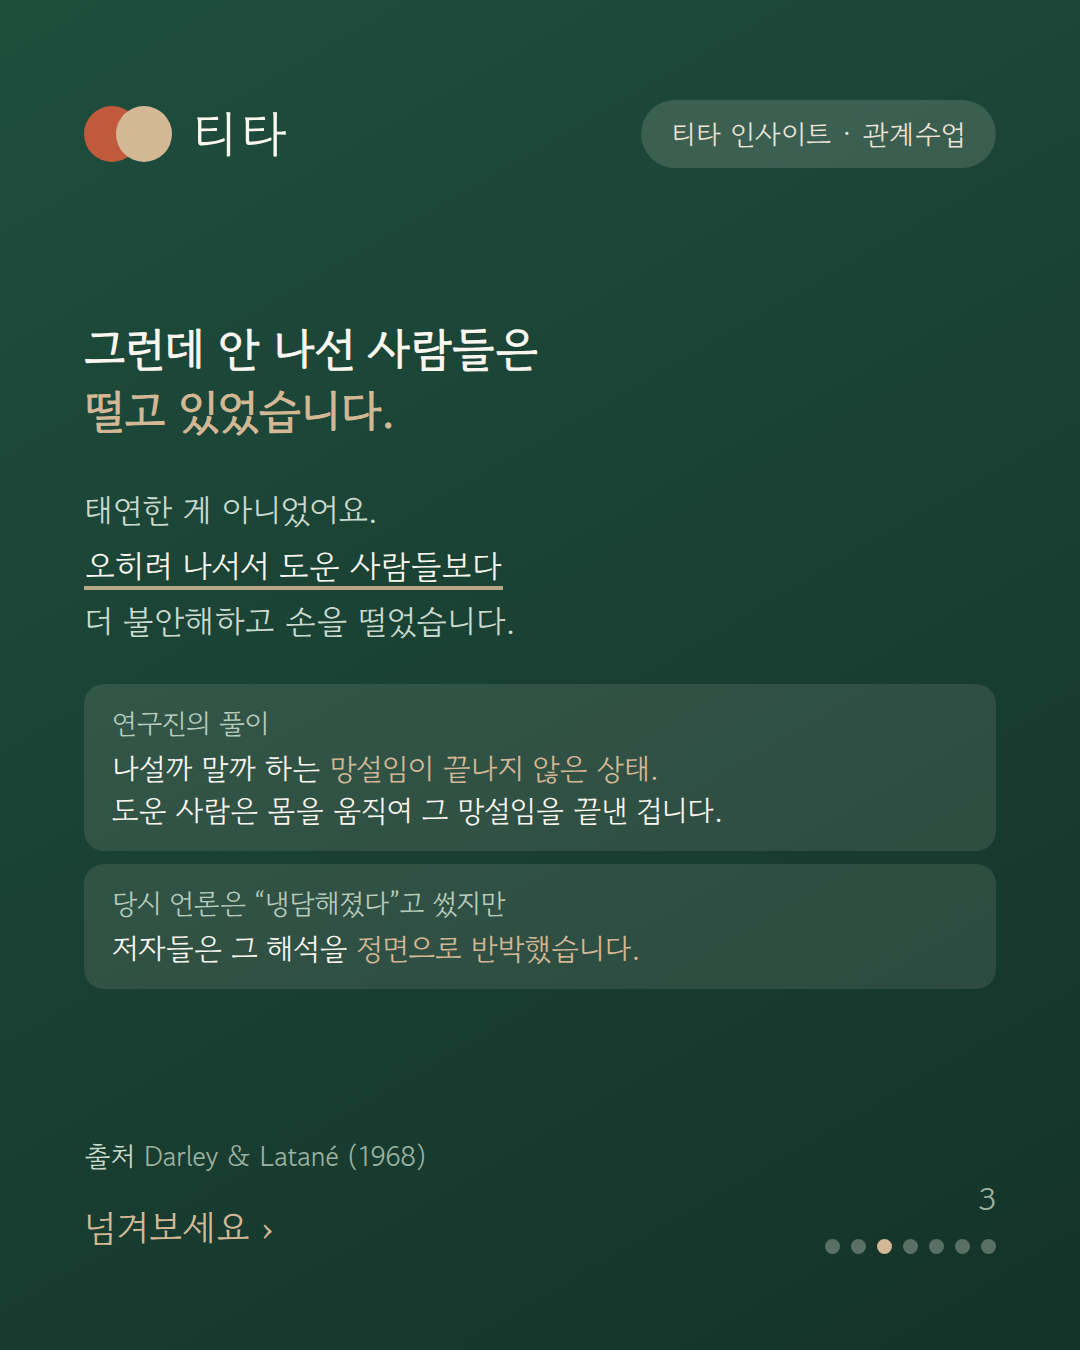
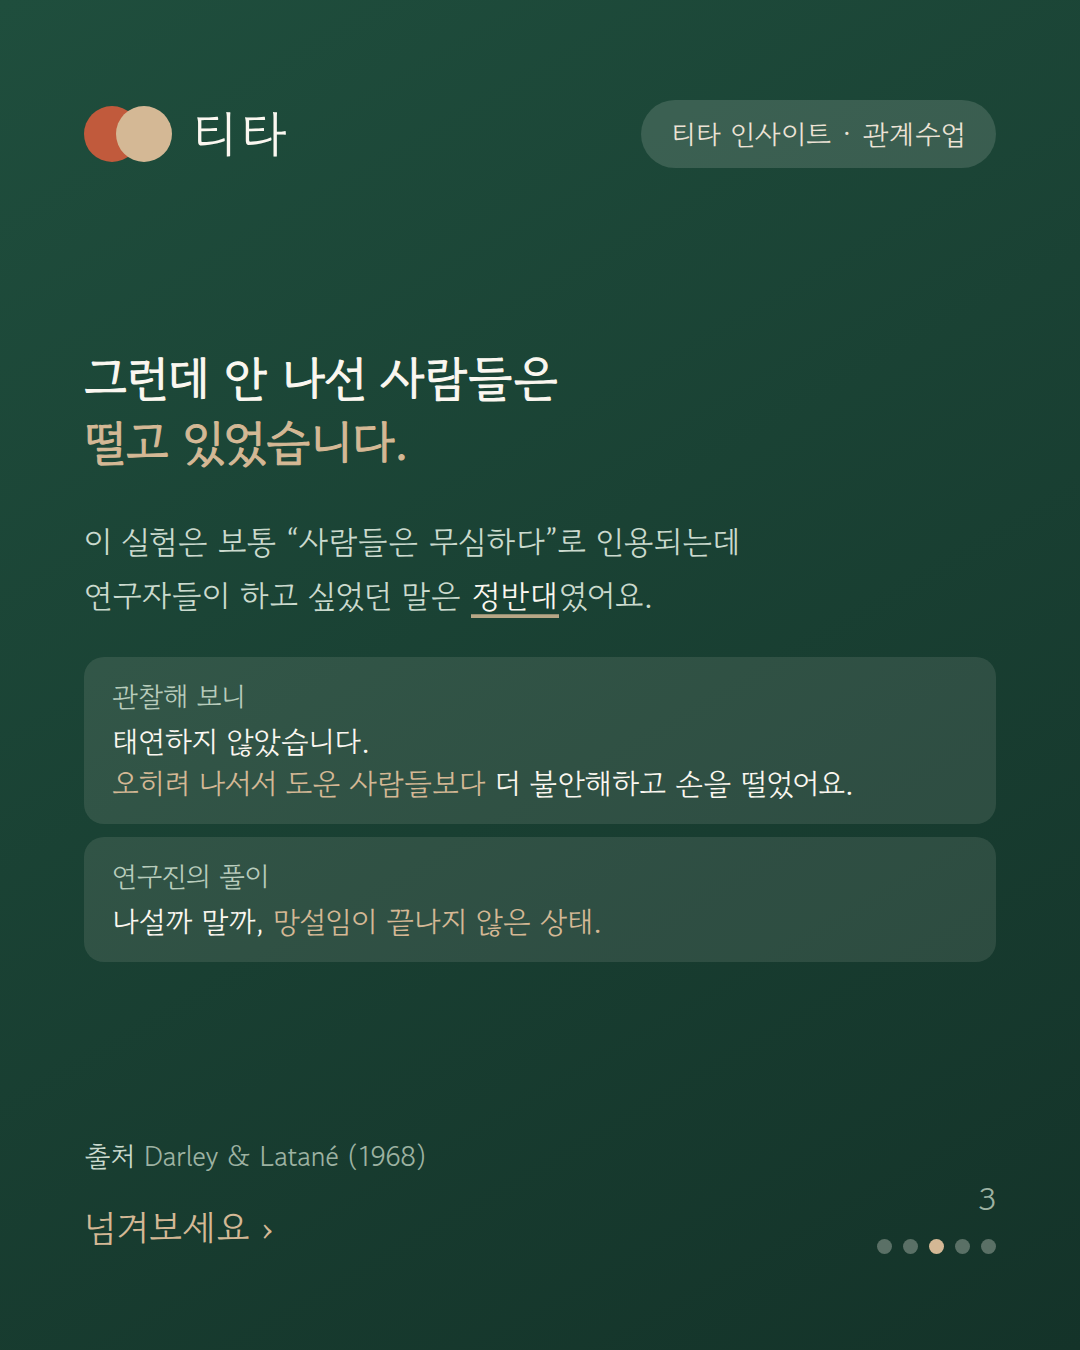
refactor(blog): 인사이트 14를 다시 짧게 쓴다 — 우리 서로 아는 척하고 지냅시다
훅을 고치다가 글이 논증문이 됐다. 자료를 먼저 깔고 거기 맞춰 글을 지으니
연구가 다섯 개까지 늘고 도덕적 구분까지 붙었다. 순서를 뒤집었다.
하고 싶은 말 한 줄을 먼저 정하고 거기 필요한 자료만 붙인다.

밀그램·의도적 무지·다원적 무지·마키를 덜어내고 연구를 셋으로 줄였다.
7분에서 4분이 됐다. 카드도 블로그 5장, 인스타 5장으로 다시 뽑았다.

Claude-Session: https://claude.ai/code/session_01SVoaR1M7XWjiBzTKquaj1d

diff --git a/src/app/blog/posts.ts b/src/app/blog/posts.ts
@@ -231,148 +231,64 @@ export const POSTS: BlogPost[] = [
   },
   {
     slug: "why-no-one-replies",
-    title: "모른 척한 게 아니었습니다",
+    title: "우리 서로 아는 척하고 지냅시다",
     description:
-      "요즘은 다들 알면서 모르는 척한다고들 합니다. 그런데 1968년 실험은 정반대를 말합니다. 나서지 않은 사람들은 태연하지 않았고, 오히려 나선 사람들보다 더 떨고 있었습니다.",
+      "읽고 마음이 움직였는데 그냥 창을 닫은 적, 있으시죠. 1968년 실험은 그게 무심해서가 아니라고 말합니다. 나서지 않은 사람들은 오히려 더 떨고 있었습니다.",
     date: "2026-08-10",
     category: "관계 인사이트",
-    tags: [
-      "5060",
-      "관계",
-      "공감",
-      "커뮤니티",
-      "방관자 효과",
-      "다원적 무지",
-      "인간관계",
-      "심리학",
-    ],
+    tags: ["5060", "관계", "커뮤니티", "방관자 효과", "인간관계", "심리학"],
     cover: "/blog/insight-14/card-1.png",
-    readingMinutes: 7,
+    readingMinutes: 4,
     body: [
       {
         type: "p",
-        text: "요즘은 다들 알면서 모르는 척한다고들 합니다.",
+        text: "좋은 글을 읽었습니다. 마음이 조금 움직였습니다. 뭐라고 한마디 남길까 하다가, 그냥 창을 닫았습니다.",
       },
       {
         type: "p",
-        text: "도움이 필요해 보이는 사람이 있어도 못 본 듯 지나갑니다. 누가 어렵게 힘든 얘기를 꺼내면 잠깐 조용해졌다가 화제가 바뀝니다. 분명히 봤고 분명히 들었는데, 아무 일도 없던 것처럼 넘어갑니다.",
-      },
-      {
-        type: "p",
-        text: "그럴 때면 **사람들이 변했나 보다** 싶어집니다.",
-      },
-      {
-        type: "p",
-        text: "그런데 자료를 찾아보니 **1968년에도 똑같았습니다.**",
+        text: "**‘내가 뭐라고 아는 척을 하나.’ ‘이미 누가 답했겠지.’ ‘올린 지 좀 됐는데 지금 달면 이상한가.’** 그렇게 손이 멈춥니다. 이런 적, 있으실 겁니다.",
       },
       {
         type: "image",
         src: "/blog/insight-14/card-1.png",
-        alt: "알면서 모르는 척하는 일이 1968년에도 똑같았다는 티타 인사이트 카드",
+        alt: "읽고 마음이 움직였는데 그냥 창을 닫은 적 있느냐고 묻는 티타 인사이트 카드",
         caption: "티타 인사이트 · 관계수업 #14",
       },
-      { type: "h2", text: "1968년에도 똑같았습니다" },
+      { type: "h2", text: "여럿이 있으면 아무도 나서지 않습니다" },
       {
-        type: "p",
-        text: "심리학에 **방관자 효과**라는 말이 있습니다. 도움이 필요한 상황에서 **지켜보는 사람이 많을수록 아무도 나서지 않는** 현상입니다. 각자 “누군가 하겠지” 하고 기다리다 결국 아무도 하지 않습니다. 이걸 **책임 분산**이라고 부릅니다.",
+        type: "image",
+        src: "/blog/insight-14/card-2.png",
+        alt: "지켜보는 사람이 많을수록 아무도 나서지 않는다는 방관자 효과 티타 인사이트 카드",
+        caption: "Darley & Latané (1968) · 방관자 효과",
       },
       {
         type: "p",
-        text: "이 실험이 발표된 게 **1968년**입니다. 스마트폰도, 인터넷도 없던 때입니다. 지금 “요즘 사람들”이라 불리는 이들의 부모, 그 위 세대가 실험 참가자였습니다.",
+        text: "심리학에 **방관자 효과**라는 말이 있습니다. 도움이 필요한 상황에서 **지켜보는 사람이 많을수록 아무도 나서지 않는** 현상입니다. 각자 “누군가 하겠지” 하고 기다리다 결국 아무도 하지 않습니다.",
       },
       {
         type: "p",
-        text: "2년 뒤에는 이런 연구도 나왔습니다. 도시 사람들이 서로에게 덜 반응하는 건 **냉정해서가 아니라 감당할 양을 넘어서기 때문**이라는 겁니다. 하루에 스치는 얼굴이 너무 많으니 사람의 신경이 알아서 걸러 냅니다. 실제로 통근길 승객들에게 물으니 **얼굴을 아는 사람은 평균 네 명인데, 말을 걸어 본 사람은 한두 명**이었습니다. 알아보면서도 모른 채 지나가고 있었던 겁니다.",
-      },
-      {
-        type: "callout",
-        text: "알면서 지나치는 건 요즘 사람이 되어서 생긴 일이 아닙니다. 반세기 전에 이미 그랬습니다.",
+        text: "이게 밝혀진 게 **1968년**입니다. 스마트폰도, 인터넷도 없던 때입니다. **여럿이 모이면 원래 이렇게 됩니다.**",
       },
       { type: "h2", text: "그런데 안 나선 사람들은 떨고 있었습니다" },
       {
         type: "image",
-        src: "/blog/insight-14/card-2.png",
-        alt: "나서지 않은 참가자들이 무심한 게 아니라 끝까지 망설이고 있었다는 1968년 실험 결과 티타 인사이트 카드",
+        src: "/blog/insight-14/card-3.png",
+        alt: "나서지 않은 참가자들이 무심한 게 아니라 끝까지 망설이고 있었다는 실험 결과 티타 인사이트 카드",
         caption: "Darley & Latané (1968)",
       },
       {
         type: "p",
-        text: "보통 이 실험은 “사람들은 무심하다”는 이야기로 인용됩니다. 그런데 연구자들이 정작 하고 싶었던 말은 **정반대**였습니다.",
+        text: "이 실험은 보통 “사람들은 무심하다”는 이야기로 인용됩니다. 그런데 연구자들이 정작 하고 싶었던 말은 **정반대**였습니다.",
       },
       {
         type: "p",
-        text: "나서지 않은 참가자들을 관찰해 보니 태연하지 않았습니다. **오히려 나서서 도운 사람들보다 더 불안해하고, 손을 떨고, 어쩔 줄 몰라 했습니다.** 논문은 그 모습을 이렇게 풀이했습니다. **나설까 말까 하는 망설임이 끝나지 않은 상태**라고요. 도운 사람은 몸을 움직여 그 망설임을 끝냈고, 돕지 않은 사람은 **끝내 끝내지 못한 채** 그 자리에 앉아 있었던 겁니다.",
-      },
-      {
-        type: "p",
-        text: "당시 언론은 “사람들이 냉담해졌다”고 썼습니다. 두 연구자는 그 해석을 정면으로 반박했습니다. **냉담한 게 아니라 갈피를 못 잡고 있는 것**이고, 무관심으로 불러 버리면 오히려 그 행동에 면죄부를 주는 셈이라고요.",
+        text: "나서지 않은 참가자들을 관찰해 보니 태연하지 않았습니다. **오히려 나서서 도운 사람들보다 더 불안해하고, 손을 떨고, 어쩔 줄 몰라 했습니다.** 논문은 그 모습을 **나설까 말까 하는 망설임이 끝나지 않은 상태**라고 풀이했습니다.",
       },
       {
         type: "callout",
-        text: "모른 척한 게 아니었습니다. 어쩔 줄 몰라 굳어 있었던 겁니다.",
+        text: "마음이 없어서 가만있었던 게 아닙니다. 마음은 있는데 몸이 안 움직인 겁니다.",
       },
-      { type: "h2", text: "다들 서로의 눈치를 보고 있었습니다" },
-      {
-        type: "image",
-        src: "/blog/insight-14/card-3.png",
-        alt: "각자 태연한 척하며 서로를 살피다 상대의 태연함을 무관심으로 읽는 다원적 무지 티타 인사이트 카드",
-        caption: "Latané & Darley (1968) · 다원적 무지",
-      },
-      {
-        type: "p",
-        text: "같은 연구팀의 다른 실험이 이유를 보여 줍니다. 참가자가 설문지를 쓰는 방에 슬그머니 연기를 흘려 넣었습니다. **혼자 있던 사람은 대부분 곧바로 알렸습니다.** 그런데 여럿이 함께 있을 때는 알린 사람이 훨씬 적었습니다. 연기가 방에 가득 찰 때까지 앉아 있기도 했습니다.",
-      },
-      {
-        type: "p",
-        text: "이유는 이렇습니다. 사람은 애매한 상황에서 **남의 얼굴을 봅니다.** 그런데 옆 사람도 태연한 척하며 **내 얼굴을 보고 있습니다.** 모두가 속마음을 감춘 채 서로를 살피니, 각자 상대의 태연함을 “별일 아닌가 보다”로 읽습니다. 이걸 **다원적 무지**라고 합니다.",
-      },
-      {
-        type: "p",
-        text: "모임에서 아무도 먼저 말을 안 거는 자리가 꼭 이렇습니다. **모른 척하기로 마음먹은 사람은 아무도 없습니다.** 다들 남들이 조용하니 내가 나설 자리가 아닌가 보다 하고 접을 뿐입니다. 그 조용함이 다시 다음 사람을 접게 만듭니다.",
-      },
-      {
-        type: "callout",
-        text: "무심해 보이는 자리는, 다들 마음을 숨긴 채 서로를 살피고 있는 자리일 수 있습니다.",
-      },
-      { type: "h2", text: "다만, 아예 눈을 돌리는 건 다릅니다" },
-      {
-        type: "p",
-        text: "여기까지는 **나서고 싶은데 몸이 안 움직인** 경우입니다. 그런데 아예 눈을 돌려 버리는 경우도 있습니다. 이건 이야기가 다릅니다.",
-      },
-      {
-        type: "p",
-        text: "연구자들이 3만 건이 넘는 선택을 모아 분석했습니다. 사람들에게 **자기 선택이 남에게 어떤 영향을 주는지 알아볼 기회**를 주었더니, **열에 넷은 알아보지 않는 쪽을 골랐습니다.**",
-      },
-      {
-        type: "p",
-        text: "연구자들은 이걸 **핑계를 만드는 행동**으로 봤습니다. 알아 버리면 도와야 합니다. 알고도 안 도우면 나쁜 사람이 됩니다. 그래서 **아예 안 보는 쪽**을 고릅니다. 모르면 안 도와도 되니까요.",
-      },
-      {
-        type: "callout",
-        text: "좋은 사람이 되는 것과, 좋은 사람으로 보이는 걸 지키는 것은 다릅니다.",
-      },
-      {
-        type: "p",
-        text: "그러니 이 글은 면죄부가 아닙니다. **마음이 있었는데 못 한 것과, 마음 쓰지 않기로 한 것은 다릅니다.** 앞은 이해할 일이고 뒤는 그렇지 않습니다. 다행히 대부분은 앞쪽입니다.",
-      },
-      { type: "h2", text: "온라인도 다르지 않습니다" },
-      {
-        type: "p",
-        text: "온라인 모임의 참여도 고르게 나뉘지 않습니다. 널리 쓰이는 기준선이 **90 : 9 : 1** 입니다. 90%는 읽기만 하고, 9%는 가끔 한마디 보태고, **1%가 거의 모든 글을 씁니다.** 그러니 답글이 없다고 아무도 안 읽은 게 아닙니다. **읽은 사람 대부분은 원래 아무 흔적도 남기지 않습니다.**",
-      },
-      {
-        type: "p",
-        text: "해법을 찾은 연구도 있었습니다. 심리학자 패트릭 마키는 실제 채팅방에서 방에 있는 사람 수와 답이 오기까지 걸린 시간을 쟀는데, **사람이 많은 방일수록 답이 늦게 왔습니다.** 그런데 **특정한 사람의 이름을 넣어 물으면** 인원수와 상관없이 답이 왔습니다.",
-      },
-      {
-        type: "p",
-        text: "그래서 저희도 해 봤습니다. **잘 되지 않았습니다.** 이유를 생각해 보니 자리가 달랐습니다. 그 연구의 채팅방은 **모두가 같은 시간에 들어와 있는** 곳이었습니다. 지금의 게시판은 **각자 다른 시간에 스치듯 지나갑니다.** 불린 이름이 그 사람에게 도착하지 않습니다.",
-      },
-      {
-        type: "p",
-        text: "그러니 이건 **글을 쓰는 쪽에서 풀 수 있는 문제가 아닙니다.** 다행히 다른 쪽에 답이 있었습니다.",
-      },
-      { type: "h2", text: "첫 한 줄이 다음을 부릅니다" },
+      { type: "h2", text: "한 사람만 있으면 됩니다" },
       {
         type: "image",
         src: "/blog/insight-14/card-4.png",
@@ -381,7 +297,7 @@ export const POSTS: BlogPost[] = [
       },
       {
         type: "p",
-        text: "2013년 **사이언스**에 실린 실험입니다. 연구팀은 한 커뮤니티 사이트에서 **10만 건이 넘는 글**을 대상으로, 글이 올라오자마자 **무작위로** 첫 반응을 달았습니다. **글의 내용과는 무관하게** 첫 반응만 조작한 것입니다.",
+        text: "2013년 **사이언스**에 실린 실험입니다. 연구팀은 한 커뮤니티 사이트의 **10만 건이 넘는 글**에, 올라오자마자 **무작위로** 첫 반응을 달았습니다. **글 내용과는 아무 상관 없이** 첫 반응만 조작한 것입니다.",
       },
       {
         type: "p",
@@ -389,38 +305,38 @@ export const POSTS: BlogPost[] = [
       },
       {
         type: "p",
-        text: "흥미로운 건 반대 방향이었습니다. **첫 반응이 부정일 때는 그렇게 번지지 않았습니다.** 나쁜 반응은 잘 옮지 않고, 좋은 반응만 옮았습니다.",
+        text: "재미있는 건 반대 방향이었습니다. **첫 반응이 부정일 때는 그렇게 번지지 않았습니다.** 나쁜 반응은 잘 옮지 않고, 좋은 반응만 옮았습니다.",
       },
       {
         type: "callout",
         text: "글이 좋아서 반응이 달리는 게 아니라, 반응이 달려서 반응이 달립니다. 그리고 그 시작은 딱 한 명입니다.",
       },
-      { type: "h2", text: "아마 그런 분은 아닐 겁니다" },
+      { type: "h2", text: "우리 서로 아는 척하고 지냅시다" },
       {
         type: "image",
         src: "/blog/insight-14/card-5.png",
-        alt: "누군가 문을 열어 두었다면 한 번 아는 척해 달라는 티타 인사이트 카드",
+        alt: "잘 쓴 답글이 아니라 읽었다는 기척 하나면 된다는 티타 인사이트 카드",
         caption: "@titakorea",
       },
       {
         type: "p",
-        text: "여기까지 읽으셨다면, 아마 눈을 돌리는 쪽은 아닐 겁니다. **읽고 마음이 움직였는데 손이 안 나갔던 쪽**에 가깝겠지요. ‘내가 뭐라고 아는 척을 하나.’ ‘이미 누가 답했겠지.’ ‘올린 지 좀 됐는데 지금 달면 이상한가.’ 그렇게 창을 닫아 본 적이 있으실 겁니다.",
+        text: "먼저 마음 놓으셔도 되는 이야기부터 하겠습니다. **답글이 없다고 아무도 안 읽은 게 아닙니다.** 온라인 모임은 어디나 읽기만 하는 사람이 절대다수이고, 극소수가 거의 모든 글을 씁니다. **읽은 사람 대부분은 원래 아무 흔적도 남기지 않습니다.**",
       },
       {
         type: "p",
-        text: "그 망설임은 대개 **배려에서 나옵니다.** 그런데 상대에게는 **무관심으로 읽힙니다.** 1968년 그 방에서 손을 떨며 앉아 있던 사람들과 같은 자리입니다. 각자 조용히 마음을 쓰다가, 서로를 무심하다고 오해합니다.",
+        text: "그리고 그 망설임은 대개 **배려에서 나옵니다.** 괜히 끼어드는 것 같아서, 이미 누가 했을 것 같아서 접습니다. 그런데 상대에게는 **무관심으로 읽힙니다.** 각자 조용히 마음을 쓰다가 서로를 무심하다고 오해하는 셈입니다.",
       },
       {
         type: "p",
-        text: "그러니 오늘, **누군가 먼저 문을 열어 둔 자리가 보이면 한 번만 아는 척해 주시면 어떨까요.** 어렵게 꺼낸 이야기일수록 그렇습니다. 잘 쓴 답글이 아니라 **읽었다는 기척** 하나면 됩니다. 마땅한 말이 안 떠오르면 좋아요만 눌러도 되고, 올린 지 한참 된 글에 달아도 됩니다. **늦게 달린 한 줄이 대체로 가장 반갑습니다.**",
+        text: "그러니 **누군가 먼저 문을 열어 두었다면, 한 번만 아는 척해 주시면 어떨까요.** 어렵게 꺼낸 이야기일수록 그렇습니다. 잘 쓴 답글이 아니라 **읽었다는 기척** 하나면 됩니다. 마땅한 말이 안 떠오르면 좋아요만 눌러도 되고, 올린 지 한참 된 글에 달아도 됩니다. **늦게 달린 한 줄이 대체로 가장 반갑습니다.**",
       },
       {
         type: "p",
-        text: "티타에 오신 이유는 다들 비슷할 겁니다. **조금 더 나은 날을 보내고 싶어서.** 조금 더 웃는 날이 많았으면 해서. 그렇게 같은 마음으로 모인 사람들끼리 **서로를 스쳐 지나가는 건 아깝습니다.**",
+        text: "티타에 오신 이유는 다들 비슷할 겁니다. **조금 더 나은 날을 보내고 싶어서.** 그렇게 같은 마음으로 모인 사람들끼리 서로를 스쳐 지나가는 건 아깝습니다.",
       },
       {
         type: "quote",
-        text: "모른 척한 사람들이 모인 게 아니었습니다. 마음이 있는 사람들이 각자 두 번째를 기다리고 있었을 뿐입니다.",
+        text: "다들 마음은 있었습니다. 각자 두 번째를 기다리고 있었을 뿐입니다.",
       },
     ],
     sources: [
@@ -430,27 +346,8 @@ export const POSTS: BlogPost[] = [
       },
       {
         label:
-          "Latané & Darley, 「Group Inhibition of Bystander Intervention in Emergencies」 (Journal of Personality and Social Psychology, 1968) — 방에 연기가 차오를 때 혼자인 사람은 대부분 알렸지만 여럿이 있으면 훨씬 적게 알렸다. 서로의 무표정을 '별일 아님'으로 읽는 다원적 무지가 작동한다",
-      },
-      {
-        label:
-          "Stanley Milgram, 「The Experience of Living in Cities」 (Science, 1970) — 도시 생활의 자극 과부하에 적응하느라 사람들은 우선순위가 낮은 신호를 걸러 낸다. 통근 승객들은 얼굴을 아는 사람이 평균 네 명이었지만 말을 걸어 본 사람은 그보다 적었다",
-        url: "https://pubmed.ncbi.nlm.nih.gov/5415278/",
-      },
-      {
-        label:
-          "Vu, Soraperra, Leib, van der Weele & Shalvi, 「Ignorance by Choice」 (Psychological Bulletin, 2023) — 6,531명의 33,603건 선택을 모은 메타분석. 40%가 자기 선택이 남에게 미치는 영향을 알아볼 수 있는데도 알아보지 않기를 택했고, 정보가 주어졌을 때보다 이타적 행동이 15.6%p 낮았다. 저자들은 이를 좋은 자기 이미지를 지키기 위한 핑계 찾기로 해석했다",
-        url: "https://www.apa.org/pubs/journals/releases/bul-bul0000398.pdf",
-      },
-      {
-        label:
           "Muchnik, Aral & Taylor, 「Social Influence Bias: A Randomized Experiment」 (Science, 2013) — 10만 건이 넘는 게시물에 무작위로 첫 반응을 조작. 첫 긍정 반응이 최종 점수를 25% 높였고 이어지는 긍정 반응 확률을 32% 높였다. 첫 부정 반응은 장기 효과가 작았다",
         url: "https://www.science.org/doi/10.1126/science.1240466",
-      },
-      {
-        label:
-          "Patrick M. Markey, 「Bystander intervention in computer-mediated communication」 (Computers in Human Behavior, 2000) — 채팅방 인원이 많을수록 응답이 늦어졌고, 특정인의 이름을 부르면 그 효과가 사라졌다. 다만 참여자가 동시에 접속해 있는 실시간 환경에서의 결과다",
-        url: "https://www.sciencedirect.com/science/article/abs/pii/S0747563299000564",
       },
       {
         label:
@@ -460,16 +357,12 @@ export const POSTS: BlogPost[] = [
     ],
     faq: [
       {
-        q: "요즘 사람들이 알면서 모르는 척하는 게 늘어난 건가요?",
-        a: "늘었다고 보기는 어렵습니다. 지켜보는 사람이 많을수록 아무도 나서지 않는 방관자 효과는 1968년에 밝혀졌고, 도시에서 서로에게 덜 반응한다는 관찰도 1970년에 나왔습니다. 인터넷도 스마트폰도 없던 시절입니다. 사람이 변한 게 아니라, 여럿이 모이면 원래 이렇게 됩니다.",
+        q: "글에 답글이 없으면 아무도 안 읽은 건가요?",
+        a: "아닙니다. 온라인 모임은 대체로 읽기만 하는 사람이 절대다수이고 극소수가 대부분의 글을 씁니다. 읽은 사람 대부분은 원래 흔적을 남기지 않기 때문에, 답글이 없다고 해서 읽히지 않은 것은 아닙니다.",
       },
       {
         q: "나서지 않는 사람은 관심이 없는 건가요?",
         a: "1968년 실험의 저자들은 정반대로 기록했습니다. 나서지 않은 참가자들은 오히려 나서서 도운 사람들보다 더 불안해하고 손을 떨었고, 그 동요는 나설까 말까 하는 망설임이 끝나지 않았다는 뜻이라고요. 마음이 없어서가 아니라 첫 번째가 되기 어려워서 멈추는 쪽에 가깝습니다.",
-      },
-      {
-        q: "일부러 모른 척하는 경우도 있지 않나요?",
-        a: "있습니다. 3만 건이 넘는 선택을 모은 2023년 메타분석에서 40%는 자기 선택이 남에게 미치는 영향을 알아볼 수 있는데도 알아보지 않기를 택했고, 그만큼 이타적 행동도 줄었습니다. 연구자들은 이를 핑계를 만드는 행동으로 해석했습니다. 알면 도와야 하고 알고도 안 도우면 나쁜 사람이 되니 아예 안 보는 것입니다. 다만 이건 나서고 싶은데 몸이 안 움직인 경우와는 구분해야 합니다. 못 한 것과 안 보기로 한 것은 다릅니다.",
       },
       {
         q: "댓글 하나가 정말 차이를 만드나요?",
